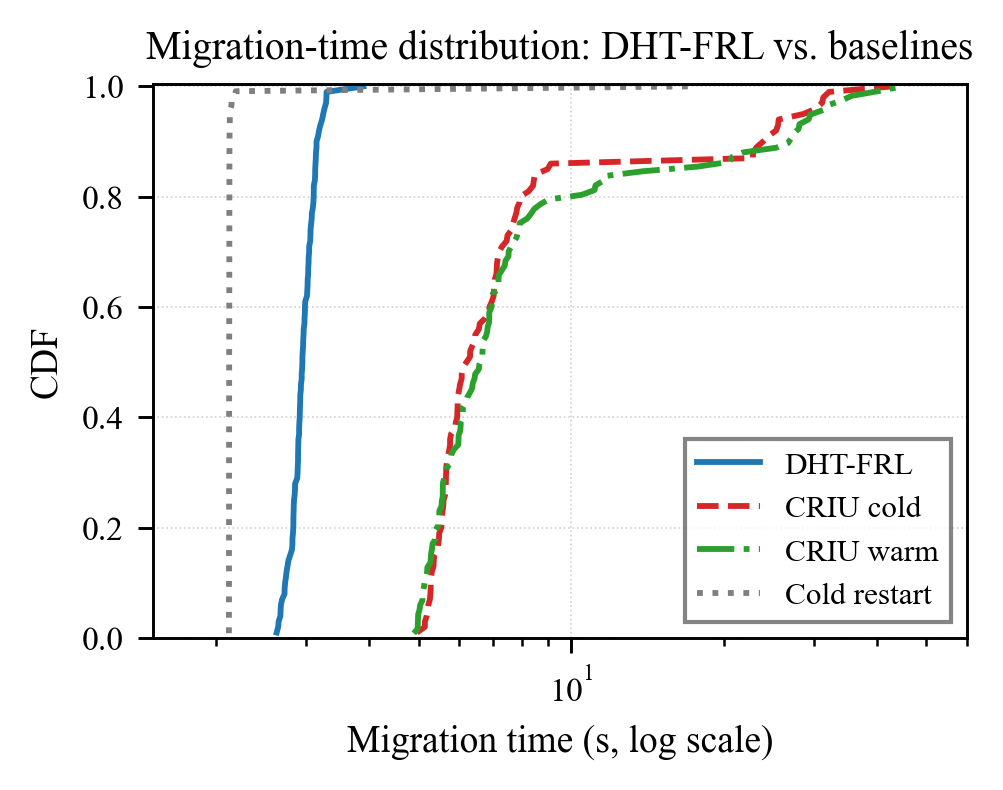
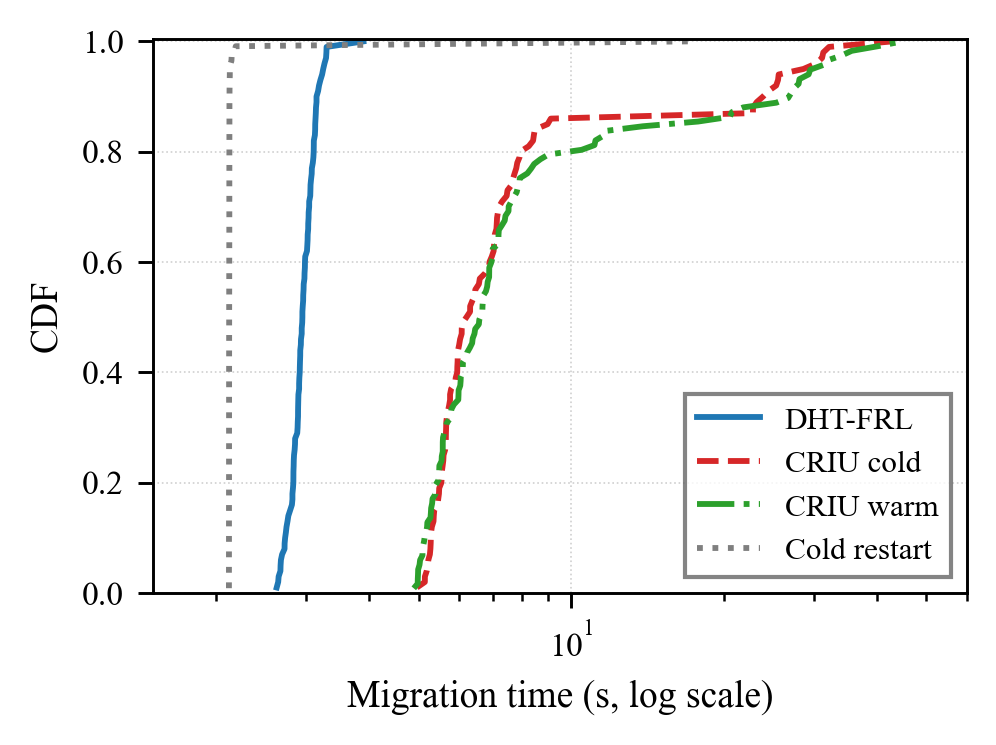
Remove titles from figures in evaluation scripts for clarity

diff --git a/cluster/evaluation2/make_figs.py b/cluster/evaluation2/make_figs.py
@@ -118,7 +118,6 @@ def fig1():
     ax.set_ylim(0, 1.005)
     ax.set_xlabel("Migration time (s, log scale)")
     ax.set_ylabel("CDF")
-    ax.set_title("Migration-time distribution: DHT-FRL vs. baselines")
     ax.legend(loc="lower right", frameon=True, fancybox=False, edgecolor="0.4")
     save(fig, "fig1_mtt_cdf")
 
@@ -150,7 +149,6 @@ def fig2():
     ax.set_yticklabels([c[1] for c in CONDS])
     ax.invert_yaxis()
     ax.set_xlabel("Median time per phase (s)")
-    ax.set_title("Where migration time goes: per-phase breakdown")
     ax.legend(loc="lower right", ncol=2, frameon=True,
               fancybox=False, edgecolor="0.4")
     ax.grid(axis="x", linestyle=":", alpha=0.6)
@@ -223,7 +221,6 @@ def fig4():
     ax.set_xlabel("Migration-time budget (SLO)")
     ax.set_ylabel("Migrations meeting budget (%)")
     ax.set_ylim(0, 108)
-    ax.set_title("SLO compliance: % of migrations within budget")
     ax.legend(loc="lower right", ncol=2, frameon=True,
               fancybox=False, edgecolor="0.4")
     ax.grid(axis="y", linestyle=":", alpha=0.6)